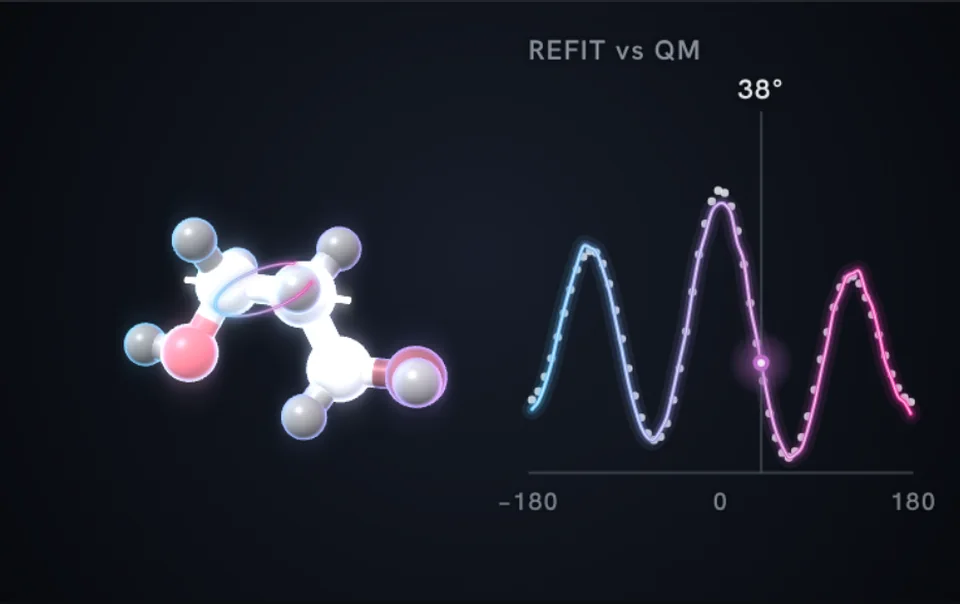
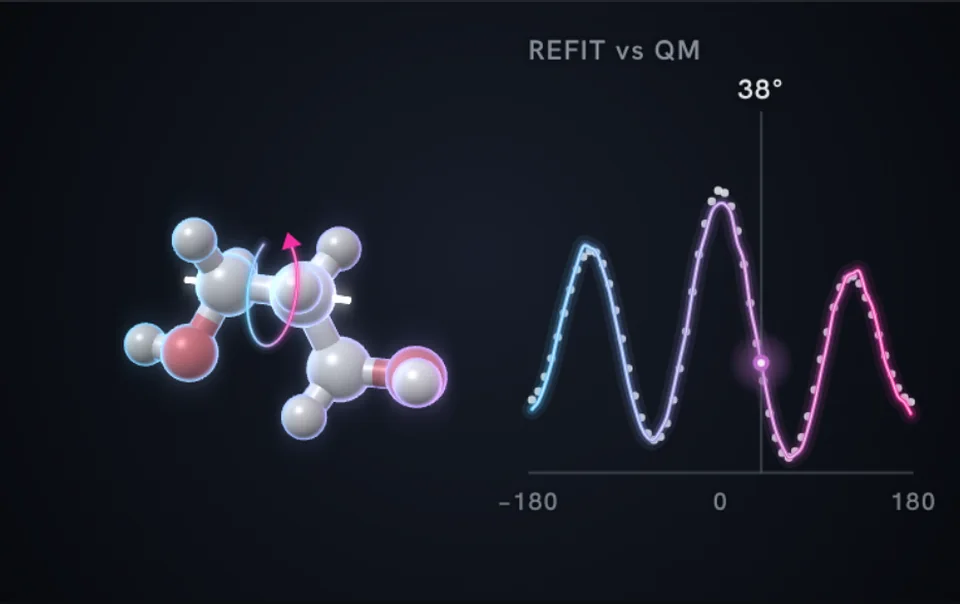
Add files via upload

Changed region(s): [[0.1562, 0.3874, 0.4062, 0.6854]]

diff --git a/assets/js/card-figures.js b/assets/js/card-figures.js
@@ -1215,7 +1215,12 @@
     file: 'dihedral', period: 12, still: 7.6,
     init: function (d) {
       var order = d.angles.map(function (a, i) { return [a, i]; }).sort(function (a, b) { return a[0] - b[0]; });
-      return { d: d, order: order };
+      // sense of rotation of the moving group when the dihedral increases
+      var tor = d.torsion, f0 = d.frames[order[0][1]], f1 = d.frames[order[1][1]];
+      var u = V3.norm(V3.sub(f0[tor[2]], f0[tor[1]]));
+      var perp = function (f) { var v = V3.sub(f[tor[3]], f[tor[2]]); return V3.sub(v, V3.scale(u, V3.dot(v, u))); };
+      var sense = V3.dot(V3.cross(perp(f0), perp(f1)), u) >= 0 ? 1 : -1;
+      return { d: d, order: order, sense: sense };
     },
     angle: function (t) {
       if (t < 3.4) return -176.5;
@@ -1234,7 +1239,7 @@
       var xyz = this.geom(S, ang), tor = S.d.torsion;
       S.ang = ang;
       var on = {}; tor.forEach(function (i) { on[i] = 1; });
-      drawMol(L, xyz, S.d.el, S.d.bonds, { scale: 1.25, bondScale: 1.25, glow: function (i) { return on[i] ? 0.22 : 0; }, rim: 1.2 });
+      drawMol(L, xyz, S.d.el, S.d.bonds, { scale: 1.25, bondScale: 1.25, glow: function (i) { return on[i] ? 0.05 : 0; }, rim: 1.2 });
       // the rotatable bond as a glowing axis
       var a = xyz[tor[1]], b = xyz[tor[2]], u = V3.norm(V3.sub(b, a));
       L.cyl(V3.sub(a, V3.scale(u, 0.9)), V3.add(b, V3.scale(u, 0.9)), 0.06, 0.06, [1, 1, 1], 0.9, 0);
@@ -1273,10 +1278,27 @@
       tag(ctx, T, morph < 0.5 ? 'GAFF2 vs QM' : 'REFIT vs QM', x0, 22, { alpha: 0.85 });
       // rotation arc around the bond
       if (S.axis) {
-        var p = P(V3.lerp(S.axis[0], S.axis[1], 0.5));
-        ctx.save(); ctx.globalAlpha = 0.9;
-        var arc = new Path2D(); arc.ellipse(p[0], p[1], 20, 8, -0.35, Math.PI * 0.15, Math.PI * 1.75);
-        neon(ctx, T, arc, p[0] - 20, p[0] + 20, 1.2, 0.8);
+        var A = S.axis[0], B = S.axis[1], u = V3.norm(V3.sub(B, A));
+        var e1 = V3.norm(V3.cross(u, Math.abs(u[1]) < 0.9 ? [0, 1, 0] : [1, 0, 0])), e2 = V3.cross(u, e1);
+        var c3 = V3.lerp(A, B, 0.62), rad = 1.0, sense = S.sense, spin = t * 1.5 * sense;
+        var pts = [];
+        for (var q = 0; q <= 40; q++) {
+          var th = spin + sense * q / 40 * Math.PI * 1.6;
+          pts.push(P(V3.add(c3, V3.add(V3.scale(e1, rad * Math.cos(th)), V3.scale(e2, rad * Math.sin(th))))));
+        }
+        var xs = pts.map(function (p) { return p[0]; });
+        neon(ctx, T, linePath(pts), Math.min.apply(null, xs), Math.max.apply(null, xs), 1.2, 0.95);
+        // arrowhead along the direction of rotation
+        var tip = pts[pts.length - 1], prev = pts[pts.length - 4];
+        var dx = tip[0] - prev[0], dy = tip[1] - prev[1], dl = Math.sqrt(dx * dx + dy * dy) || 1;
+        dx /= dl; dy /= dl;
+        ctx.save();
+        ctx.fillStyle = css(T.neonB, 0.95);
+        ctx.beginPath();
+        ctx.moveTo(tip[0] + dx * 6, tip[1] + dy * 6);
+        ctx.lineTo(tip[0] - dy * 4, tip[1] + dx * 4);
+        ctx.lineTo(tip[0] + dy * 4, tip[1] - dx * 4);
+        ctx.closePath(); ctx.fill();
         ctx.restore();
       }
     }
@@ -1488,20 +1510,18 @@
       var f = clamp(q / 0.75, -1, 1);
       return f < 0 ? mixc([0.93, 0.94, 0.96], ACID, -f) : mixc([0.93, 0.94, 0.96], BASE, f);
     },
-    frame: function (S, t, L) {
+    frame: function (S, t, L, T) {
       var d = S.d, k = this.k(t), tk = 0.4 + k * 2.2, f = ease(win(t, tk, tk + 0.8));
       var prev = S.confs[Math.max(0, k - 1)], curr = S.confs[k];
       var xyz = curr.map(function (p, i) { return V3.lerp(prev[i], p, k ? f : 1); });
-      var qa = d.charges[Math.max(0, k - 1)], qb = d.charges[k], self = this;
+      // the atom whose charge is read out on the chart
+      var pick = S.heavy[Math.floor(t / 0.75) % S.heavy.length], pulse = 0.5 + 0.5 * Math.sin(t * 8.4);
+      var mark = mixc(T.neonA, T.neonB, 0.5 + 0.5 * Math.sign(d.mean[pick]) * -1);
       drawMol(L, xyz, d.el, d.bonds, { scale: 1.15, bondScale: 1.2, rim: 1.2,
-        color: function (i) { return self.qcol(qa[i] + (qb[i] - qa[i]) * f); },
-        glow: function (i) { return 0.1 * Math.abs(qb[i]); } });
-      // previous conformers as thin ghosts
-      for (var j = 0; j < k; j++) {
-        drawMol(L, S.confs[j], d.el, d.bonds, { scale: 0.32, bondScale: 0.5, rim: 0.5, noH: true, lo: true,
-          color: function () { return [0.55, 0.6, 0.68]; } });
-      }
-      S.k = k; S.f = f;
+        color: function (i, e) { return i === pick ? mixc(elColor(e), mark, 0.6) : elColor(e); },
+        glow: function (i) { return i === pick ? 0.10 + 0.08 * pulse : 0; },
+        radius: function (i) { return i === pick ? 1.15 : 1; } });
+      S.k = k; S.f = f; S.pick = pick;
       return { R: mul3(rotY(0.3 * Math.sin(t * 0.4)), rotX(0.35)), dist: 31, fov: 0.6, target: [0, 0, 0], shift: [-0.46, 0.0], depth: 8, rim: [0.56, 1.0, 1.1] };
     },
     overlay: function (S, t, ctx, w, h, T) {
@@ -1523,17 +1543,25 @@
           ctx.beginPath(); ctx.arc(x, Y(q), 1.5, 0, Math.PI * 2); ctx.fill();
         }
         var mean = sum / (k + 1);
-        var c = mean < 0 ? T.neonB : T.neonA;
+        var c = mean < 0 ? T.neonB : T.neonA, on = i === S.pick;
+        if (on) {
+          ctx.fillStyle = css(c, 0.12);
+          ctx.fillRect(x - (x1 - x0) / n / 2, y0, (x1 - x0) / n, y1 - y0);
+        }
         ctx.fillStyle = css(c, 0.95);
         ctx.fillRect(x - 3.2, Y(mean) - 1, 6.4, 2);
-        ctx.fillStyle = css(c, 0.18);
+        ctx.fillStyle = css(c, on ? 0.45 : 0.18);
         ctx.fillRect(x - 1.2, Math.min(ym, Y(mean)), 2.4, Math.abs(Y(mean) - ym));
+        if (on) {
+          var qs = (mean < 0 ? '−' : '+') + Math.abs(mean).toFixed(3);
+          tag(ctx, T, d.names[i] + '  ' + qs, clamp(x, x0 + 30, x1 - 30), mean < 0 ? Y(mean) + 16 : Y(mean) - 8, { align: 'center', color: T.ink });
+        }
       }
       tag(ctx, T, '+', x0 - 8, y0 + 4, { align: 'center' });
       tag(ctx, T, '−', x0 - 8, y1 + 4, { align: 'center' });
       tag(ctx, T, 'N = ' + (S.k + 1) + ' conformer' + (S.k ? 's' : ''), x0, y0 - 12, { color: T.ink });
       tag(ctx, T, 'ABCG2  ·  MHET', 16, 24, { alpha: 0.85 });
-      tag(ctx, T, 'charge per heavy atom', x0, y1 + 18, { alpha: 0.7, size: 9.5 });
+      tag(ctx, T, 'mean charge (e)', x0, y1 + 18, { alpha: 0.7, size: 9.5 });
     }
   };
 
